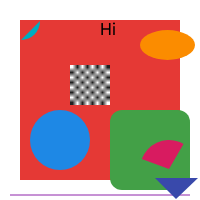
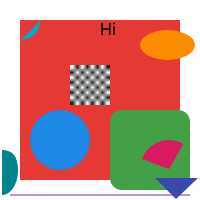
Add quadratic and cubic Bezier path command support
Extends the demo payload with a second real path (moveTo/quadTo/cubicTo/
close), reverse-engineered the same way as the first:

- QUADRATIC (tag 12): same 2-word encoder-bug padding as LINE, ahead of
  4 real floats (x1, y1, x2, y2).
- CUBIC (tag 14): same padding, ahead of 6 real floats (x1, y1, x2, y2,
  x3, y3).

Both confirmed byte-exact against a real quadTo(18,150,18,170) +
cubicTo(18,185,10,195,2,195) call -- the encoder bug documented in the
prior DrawPath commit applies identically to every multi-float add()
overload, not just LINE's.

Added PathCommand.QuadraticTo (the model didn't have one) plus
OpcodeExecutor support via Path.quadraticTo(). CONIC (tag 13) is still
deliberately unhandled -- extrapolating its padding from the other three
would be reasonable, but "reasonable" is exactly the kind of assumption
this project has been testing against real bytes rather than trusting,
and Compose's Path has no native conic primitive to hand it to anyway.

Verified via Desktop (the new teal curve renders correctly); 17 real
opcodes now supported, with two of them (LINE/DRAW_PATH) now covering a
broader real payload shape than before.

Claude-Session: https://claude.ai/code/session_01GQQ3LnfhXR1mA4HeBBDnYg

Changed region(s): [[0.0, 0.75, 0.09, 0.99]]

diff --git a/src/commonMain/kotlin/com/example/remotecompose/parser/RealRemoteComposeParser.kt b/src/commonMain/kotlin/com/example/remotecompose/parser/RealRemoteComposeParser.kt
@@ -104,16 +104,18 @@ object RealRemoteComposeParser {
      * array (see `androidx.compose.remote.core.RemotePathBase` — [Utils.asNan]-style sentinels,
      * not plain floats, mark where each command starts).
      *
-     * Confirmed against real output from a `moveTo`/`lineTo`/`lineTo`/`close()` path: the encoder
-     * has a documented bug (`RemotePathBase.add(int,float,float)`: "THIS IS FLAW in the encoding
-     * TODO FIX ON VERSIONING") that advances the write cursor 2 slots too many before writing a
-     * command's real coordinates, leaving 2 zeroed/garbage floats between a command's tag and its
-     * actual arguments for every non-[PATH_CMD_MOVE]/[PATH_CMD_CLOSE] command — this reader has to
+     * Confirmed against real output from `moveTo`/`lineTo`/`close()`, then separately
+     * `moveTo`/`quadTo`/`cubicTo`/`close()`, paths: the encoder has a documented bug
+     * (`RemotePathBase.add(int,float,float)`: "THIS IS FLAW in the encoding TODO FIX ON
+     * VERSIONING") that advances the write cursor 2 slots too many before writing a command's
+     * real coordinates, leaving 2 zeroed/garbage floats between a command's tag and its actual
+     * arguments for every non-[PATH_CMD_MOVE]/[PATH_CMD_CLOSE] command — this reader has to
      * reproduce that exact padding to stay aligned, not just skip it as a curiosity. Per-command
-     * stride (tag + padding + real args), verified for [PATH_CMD_MOVE]/[PATH_CMD_LINE]/
-     * [PATH_CMD_CLOSE] only — [PATH_CMD_QUADRATIC]/[PATH_CMD_CONIC]/[PATH_CMD_CUBIC] are declared
-     * from source but their exact padded stride hasn't been confirmed against real bytes yet, so
-     * they're a hard parse failure here rather than a guess.
+     * stride (tag + padding + real args) is verified for [PATH_CMD_MOVE]/[PATH_CMD_LINE]/
+     * [PATH_CMD_QUADRATIC]/[PATH_CMD_CUBIC]/[PATH_CMD_CLOSE]; only [PATH_CMD_CONIC] remains
+     * unverified — its 2-word padding is the same bug applied to a same-shaped `add()` overload,
+     * but that specific overload hasn't been exercised against real bytes, so it's still a hard
+     * parse failure here rather than an unverified extrapolation.
      */
     private const val OP_DATA_PATH = 123
 
@@ -368,8 +370,8 @@ object RealRemoteComposeParser {
      * as bits, not as [BufferReader.readFloat32], since a command tag is a specific NaN bit
      * pattern that must be tested before deciding whether a word is a tag or real float data).
      *
-     * @throws RemoteComposeParseException on [PATH_CMD_QUADRATIC]/[PATH_CMD_CONIC]/
-     *   [PATH_CMD_CUBIC] — declared from source but not yet byte-verified (see [OP_DATA_PATH]).
+     * @throws RemoteComposeParseException on [PATH_CMD_CONIC] — declared from source but not yet
+     *   byte-verified (see [OP_DATA_PATH]).
      */
     private fun decodePathArray(reader: BufferReader, floatCount: Int): List<PathCommand> {
         val words = IntArray(floatCount) { reader.readS32() }
@@ -391,13 +393,30 @@ object RealRemoteComposeParser {
                     commands += PathCommand.LineTo(Float.fromBits(words[i + 3]), Float.fromBits(words[i + 4]))
                     i += 5
                 }
+                PATH_CMD_QUADRATIC -> {
+                    // Same 2-word padding bug as LINE, ahead of 4 real floats (x1, y1, x2, y2).
+                    commands += PathCommand.QuadraticTo(
+                        Float.fromBits(words[i + 3]), Float.fromBits(words[i + 4]),
+                        Float.fromBits(words[i + 5]), Float.fromBits(words[i + 6]),
+                    )
+                    i += 7
+                }
+                PATH_CMD_CUBIC -> {
+                    // Same 2-word padding bug, ahead of 6 real floats (x1, y1, x2, y2, x3, y3).
+                    commands += PathCommand.CubicTo(
+                        Float.fromBits(words[i + 3]), Float.fromBits(words[i + 4]),
+                        Float.fromBits(words[i + 5]), Float.fromBits(words[i + 6]),
+                        Float.fromBits(words[i + 7]), Float.fromBits(words[i + 8]),
+                    )
+                    i += 9
+                }
                 PATH_CMD_CLOSE -> {
                     commands += PathCommand.Close
                     i += 1
                 }
                 else -> throw RemoteComposeParseException(
                     "Real path command tag $tag at float index $i is not yet supported " +
-                        "(only MOVE/LINE/CLOSE verified against real output)",
+                        "(MOVE/LINE/QUADRATIC/CUBIC/CLOSE verified against real output; CONIC is not)",
                 )
             }
         }

diff --git a/src/commonMain/kotlin/com/example/remotecompose/demo/SamplePayload.kt b/src/commonMain/kotlin/com/example/remotecompose/demo/SamplePayload.kt
@@ -8,10 +8,11 @@ import kotlin.io.encoding.ExperimentalEncodingApi
  * `androidx.compose.remote:remote-creation-jvm:1.0.0-alpha18` writer (a red `drawRect`, a blue
  * `drawCircle`, a green `drawRoundRect`, a `drawTextAnchored`, a purple `drawLine`, an orange
  * `drawOval`, a cyan `drawArc`, a pink `drawSector`, an indigo `drawPath` triangle, an 8x8
- * checkerboard `drawBitmap`, and an `addClickArea` tap target over the red rect), not by anything
- * in this codebase. Shared by every platform demo entry point (iOS, Android) so they render
- * byte-identical input — the point of the cross-platform comparison is to catch *rendering*
- * differences, not to accidentally compare two different payloads.
+ * checkerboard `drawBitmap`, an `addClickArea` tap target over the red rect, and a teal
+ * `drawPath` combining a quadratic and a cubic Bézier segment), not by anything in this codebase.
+ * Shared by every platform demo entry point (iOS, Android) so they render byte-identical input —
+ * the point of the cross-platform comparison is to catch *rendering* differences, not to
+ * accidentally compare two different payloads.
  */
 @OptIn(ExperimentalEncodingApi::class)
 val SAMPLE_RC_BYTES: ByteArray by lazy {
@@ -24,6 +25,7 @@ val SAMPLE_RC_BYTES: ByteArray by lazy {
[3 lines of base64/hex data omitted]
-            "AEM0AAAAAAAw"
[1 lines of base64/hex data omitted]
+            "AAAAAABBkAAAQzkAAEEgAABDQwAAQAAAAENDAAD/gAAPfAAAADE="
     )
 }

diff --git a/src/commonMain/kotlin/com/example/remotecompose/model/Paint.kt b/src/commonMain/kotlin/com/example/remotecompose/model/Paint.kt
@@ -25,11 +25,15 @@ enum class PaintStyleKind {
 /**
  * One segment of a reconstructed path, as emitted by `OP_DRAW_PATH` / `OP_CLIP_PATH`. Mirrors the
  * subset of `androidx.compose.ui.graphics.Path` construction calls the renderer needs to support:
- * move, line, cubic Bézier, and close.
+ * move, line, quadratic and cubic Bézier, and close.
  */
 sealed interface PathCommand {
     data class MoveTo(val x: Float, val y: Float) : PathCommand
     data class LineTo(val x: Float, val y: Float) : PathCommand
+    data class QuadraticTo(
+        val x1: Float, val y1: Float,
+        val x2: Float, val y2: Float,
+    ) : PathCommand
     data class CubicTo(
         val x1: Float, val y1: Float,
         val x2: Float, val y2: Float,

diff --git a/tools/rc-writer/src/main/kotlin/Main.kt b/tools/rc-writer/src/main/kotlin/Main.kt
@@ -67,6 +67,16 @@ fun main() {
 
     writer.addClickArea(7, "tap target", 20f, 20f, 180f, 180f, "https://example.com/tapped")
 
+    writer.getRcPaint()
+        .setColor(0xFF00838F.toInt())
+        .commit()
+    val curvePath = RemotePath()
+    curvePath.moveTo(2f, 150f)
+    curvePath.quadTo(18f, 150f, 18f, 170f)
+    curvePath.cubicTo(18f, 185f, 10f, 195f, 2f, 195f)
+    curvePath.close()
+    writer.drawPath(curvePath)
+
     val bytes = writer.encodeToByteArray()
     File("sample.rc").writeBytes(bytes)
     println("wrote ${bytes.size} bytes to sample.rc")

diff --git a/src/commonMain/kotlin/com/example/remotecompose/engine/OpcodeExecutor.kt b/src/commonMain/kotlin/com/example/remotecompose/engine/OpcodeExecutor.kt
@@ -229,6 +229,7 @@ object OpcodeExecutor {
             when (command) {
                 is PathCommand.MoveTo -> path.moveTo(command.x, command.y)
                 is PathCommand.LineTo -> path.lineTo(command.x, command.y)
+                is PathCommand.QuadraticTo -> path.quadraticTo(command.x1, command.y1, command.x2, command.y2)
                 is PathCommand.CubicTo -> path.cubicTo(
                     command.x1, command.y1,
                     command.x2, command.y2,
